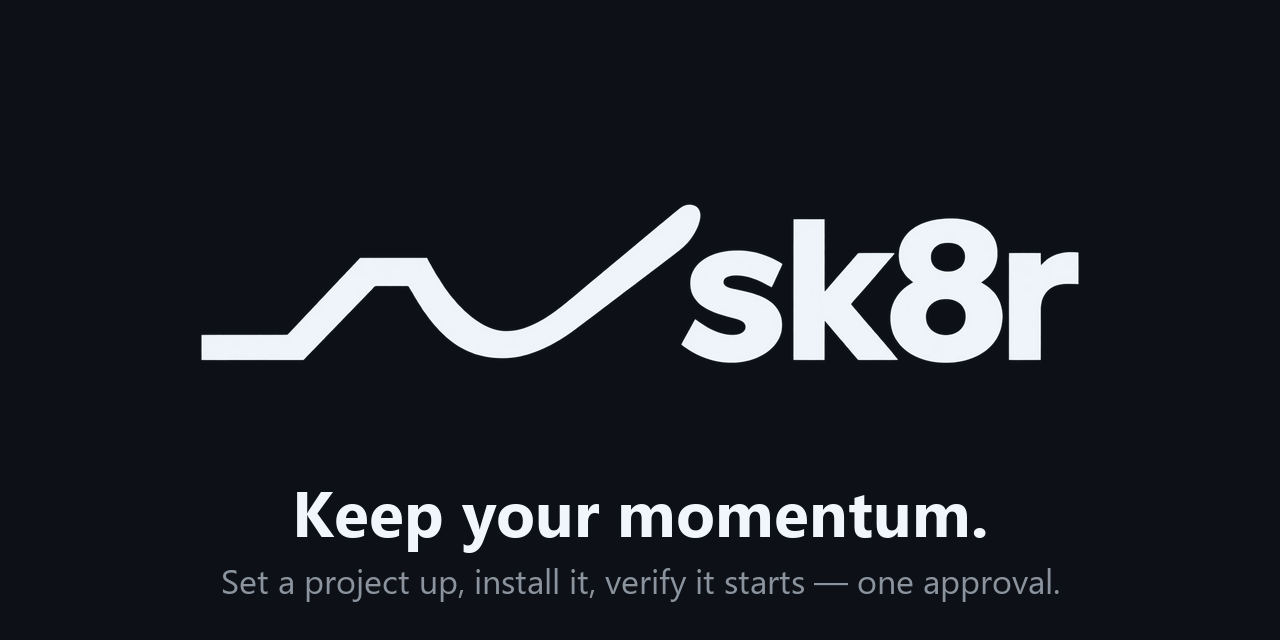
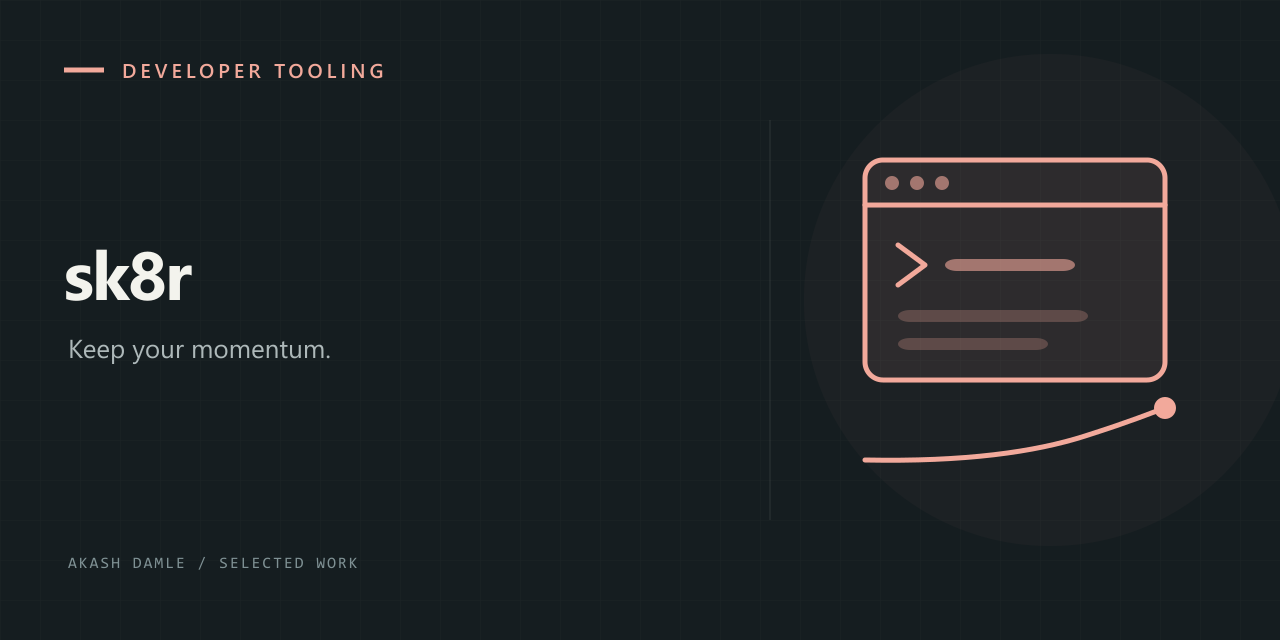
sk8r for 1.0: article, project entry and a cover in the new style

diff --git a/lib/projects.ts b/lib/projects.ts
@@ -64,20 +64,22 @@ export const projects: Project[] = [
 		role: "Developer, with Claude and GPT-6.1 Sol as AI co-authors",
 		problem: "Momentum dies between cloning a project and getting it running: the interpreter, package manager, missing settings and start command all need decisions, and an AI assistant can guess wrong at each one.",
 		constraint: "A readiness check cannot prove a server started. Setup must be reviewable, preserve existing settings and leave other people's processes alone.",
-		approach: "Data-only presets and inference from project files produce a numbered plan. After approval, sk8r records setup, fills missing local settings without printing values, adds T3 Code buttons and checks for an HTTP answer. A journal supports undo while leaving later user edits alone. Configured, dependencies installed, dry-run verified and launched are reported separately.",
-		outcome: "Released as 0.1.0 under MIT; not on PyPI yet, install from GitHub with uv. T3 Code-centred, with field results from two projects on one Windows machine. Operations API reached HTTP 200 in about 11 seconds after one approval with packages already installed; Lead Platform's launch is unconfirmed. macOS is verified in CI only, not by hand.",
+		approach: "Data-only presets and inference from project files produce a numbered plan. After approval, sk8r records setup, fills missing local settings without printing values, adds T3 Code buttons and checks for an HTTP answer. A project's declared commands run only after the user approves them once on that machine, and any change asks again. A journal supports undo while leaving later user edits alone. Configured, dependencies installed, dry-run verified and launched are reported separately.",
+		outcome: "Released as 1.0 on PyPI (`uv tool install sk8r`) under MIT, marked Beta. T3 Code-centred, with field results from three projects on one Windows machine: Operations API reached HTTP 200 in about 11 seconds after one approval with packages already installed, a fresh install set Rootstock up in 88 seconds, and Lead Platform's launch is unconfirmed. macOS is covered by CI only; reports from Mac users are welcome.",
 		stack: ["Python", "Standard library", "TOML", "unittest", "T3 Code", "GitHub Actions"],
 		highlights: [
 			"The Operations API field report records one approval to HTTP 200 in about 11 seconds; dependencies were already present.",
+			"A fresh install from GitHub set up Rootstock in 88 seconds with one approval; its five findings became 1.0 fixes.",
+			"A repository's commands run only after you approve them; the approval lives outside the repository and any change asks again.",
 			"sk8r undo previews and reverses journalled changes, including replaced editor buttons, while keeping later user edits.",
 			"App settings diagnostics show key names only; sk8r never prints or journals .env values.",
-			"CI runs on Linux, macOS and Windows with Python 3.11 and 3.15.",
+			"CI runs on Linux, macOS and Windows with Python 3.11 and 3.15, and each release is installed and run on all three before it reaches PyPI.",
 			"MIT licensed, with Python's standard library as the only runtime dependency.",
 		],
 		repo: "https://github.com/code-kasha/sk8r",
 		article: "/blog/sk8r-from-clone-to-running-app",
 		cover: "/sk8r-social.png",
-		screenshot: { src: "/sk8r.png", width: 1280, height: 800, alt: "Real sk8r dry-run output from a disposable Django marker layout: numbered plan and four states, all incomplete; no application was launched" },
+		screenshot: { src: "/sk8r.png", width: 1280, height: 800, alt: "Real sk8r dry-run output from a disposable Django marker layout (sk8r 1.0.1 prints the same): numbered plan and four states, all incomplete; no application was launched" },
 		featured: true,
 	},
 	{

diff --git a/lib/posts.ts b/lib/posts.ts
@@ -31,12 +31,12 @@ export const posts: Post[] = [
 	{
 		slug: 'sk8r-from-clone-to-running-app',
 		title: 'sk8r: from a fresh clone to a running app in one approval',
-		description: 'Four attempts on Lead Platform shaped a setup tool; Operations API then reached HTTP 200 after one approval. What sk8r verifies, what it can undo, and what remains untested.',
-		published: '2026-11-15',
-		updated: '2026-11-15',
+		description: 'Four attempts on Lead Platform shaped a setup tool; Operations API and a fresh install on Rootstock then reached HTTP 200 after one approval. What sk8r 1.0 verifies, what it asks before running, what it can undo, and what remains untested.',
+		published: '2026-11-16',
+		updated: '2026-11-16',
 		status: 'published',
 		tags: ['Python', 'Developer tools', 'AI agents', 'T3 Code'],
-		readingMinutes: 8,
+		readingMinutes: 10,
 	},
 	{
 		slug: 'a-context-pack-for-ai-sessions-measured',

diff --git a/agent-start.md b/agent-start.md
@@ -7,6 +7,16 @@ Last updated: **2026-10-13** · Production at `16fb97c`: Rootstock (deployed 12 
 ---
 
 
+## sk8r launch updated for 1.0 — 16 November 2026
+
+On `sk8r-launch`, after merging `origin/main` (`a77e834`, the cover redesign), for local review only; nothing pushed. sk8r 1.0.1 is on PyPI. The article now says 1.0 on PyPI and installs with `uv tool install sk8r`; it adds "A fresh install: Rootstock" (the 88-second trial and its five findings, fixed in 1.0) and "Deciding what a cloned repository may run" (approval of a project's commands, the Windows/Python 3.11 program-substitution bug found while GitHub showed no clones and fixed before republishing, loopback-only start check, Git's fsmonitor off); buttons now appear in T3 without a reload; macOS: no Mac, platform reports invited; three field results. Published and updated dates 2026-11-16; reading time 10 minutes (2,283 words at about 220 a minute). Project entry: approach mentions approvals, outcome is 1.0 on PyPI (Beta), two new highlights, CI line mentions release install checks, screenshot alt says 1.0.1 prints the same.
+
+Cover: `scripts/build-project-covers.mjs` gained sk8r (`DEVELOPER TOOLING`, "Keep your momentum.", accent `#f2a99b`, a new `terminal` illustration); `public/sk8r-social.svg` and `.png` generated. Running the script rewrites the other SVGs with LF line endings only (content and PNGs identical), so those were restored. Screenshot `public/sk8r.png` kept: sk8r 1.0.1, installed from PyPI into a throwaway uv tool folder, prints exactly the captured plan and states on the same disposable layout (`manage.py`, `uv.lock`, `pyproject.toml`).
+
+Validation: `pnpm lint` 0 errors (existing warnings); `pnpm build` passes and generates `/projects/sk8r` and the article; light-mode Playwright captures of the home grid, project page and article checked. Not published: waits for Akash's go (push `sk8r-launch` into `v2` and `main`; `main` deploys).
+
+---
+
 ## sk8r launch prepared — 15 November 2026
 
 Added on `sk8r-launch` from `v2` (`66fcadc`), for local review only. New sk8r project entry, public source link, cover and real dry-run screenshot, plus an eight-minute article (`sk8r-from-clone-to-running-app`). The optional project `article` field links the write-up from the case-study route. Order: first in the projects grid (Akash, 15 November 2026: "First"), ahead of Rootstock, part “Developer tooling”; the existing relative order is otherwise unchanged. Post metadata follows `lib/posts.ts` (no MDX YAML front matter): 15 November 2026, newest post. Its published flag enables production-build review; nothing was pushed or deployed.
